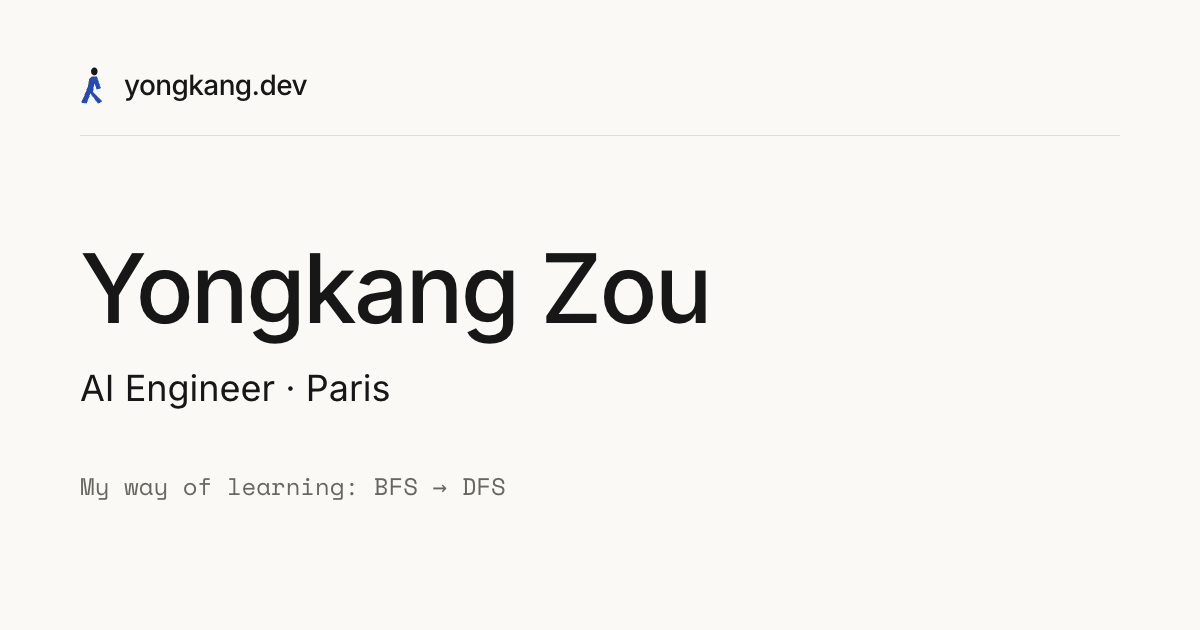
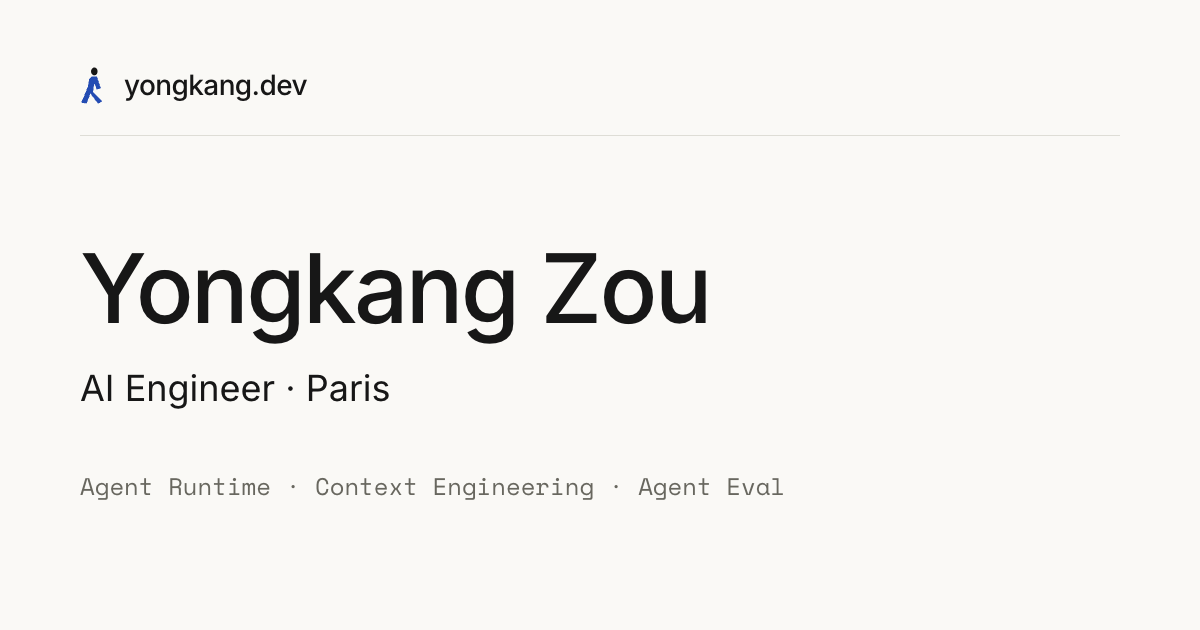
feat(share): card's third line lists the current focus areas

Changed region(s): [[0.0617, 0.754, 0.4933, 0.7841], [0.5242, 0.754, 0.6475, 0.7841]]

diff --git a/frontend/og/og-card.html b/frontend/og/og-card.html
@@ -91,7 +91,7 @@
     <main>
       <h1>Yongkang Zou</h1>
       <p class="role">AI Engineer · Paris</p>
-      <p class="learning">My way of learning: BFS → DFS</p>
+      <p class="learning">Agent Runtime · Context Engineering · Agent Eval</p>
     </main>
   </body>
 </html>
